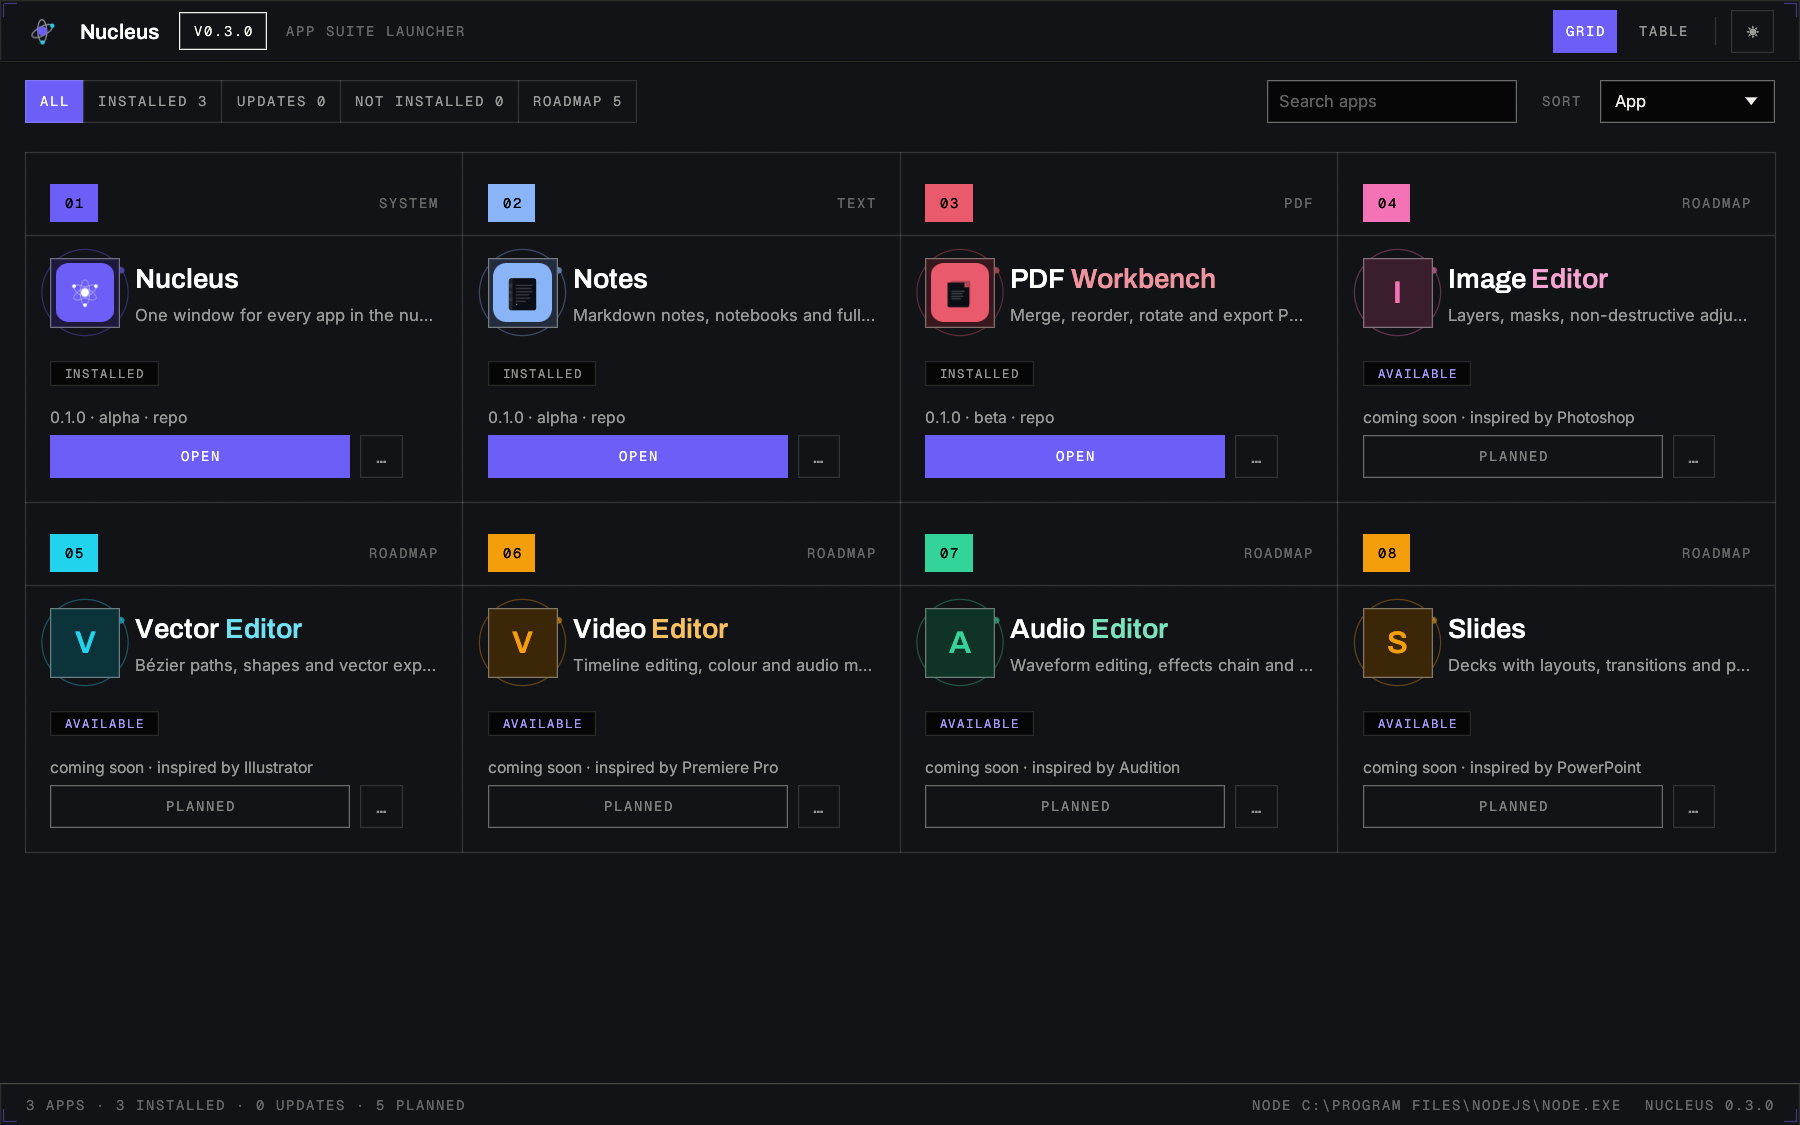
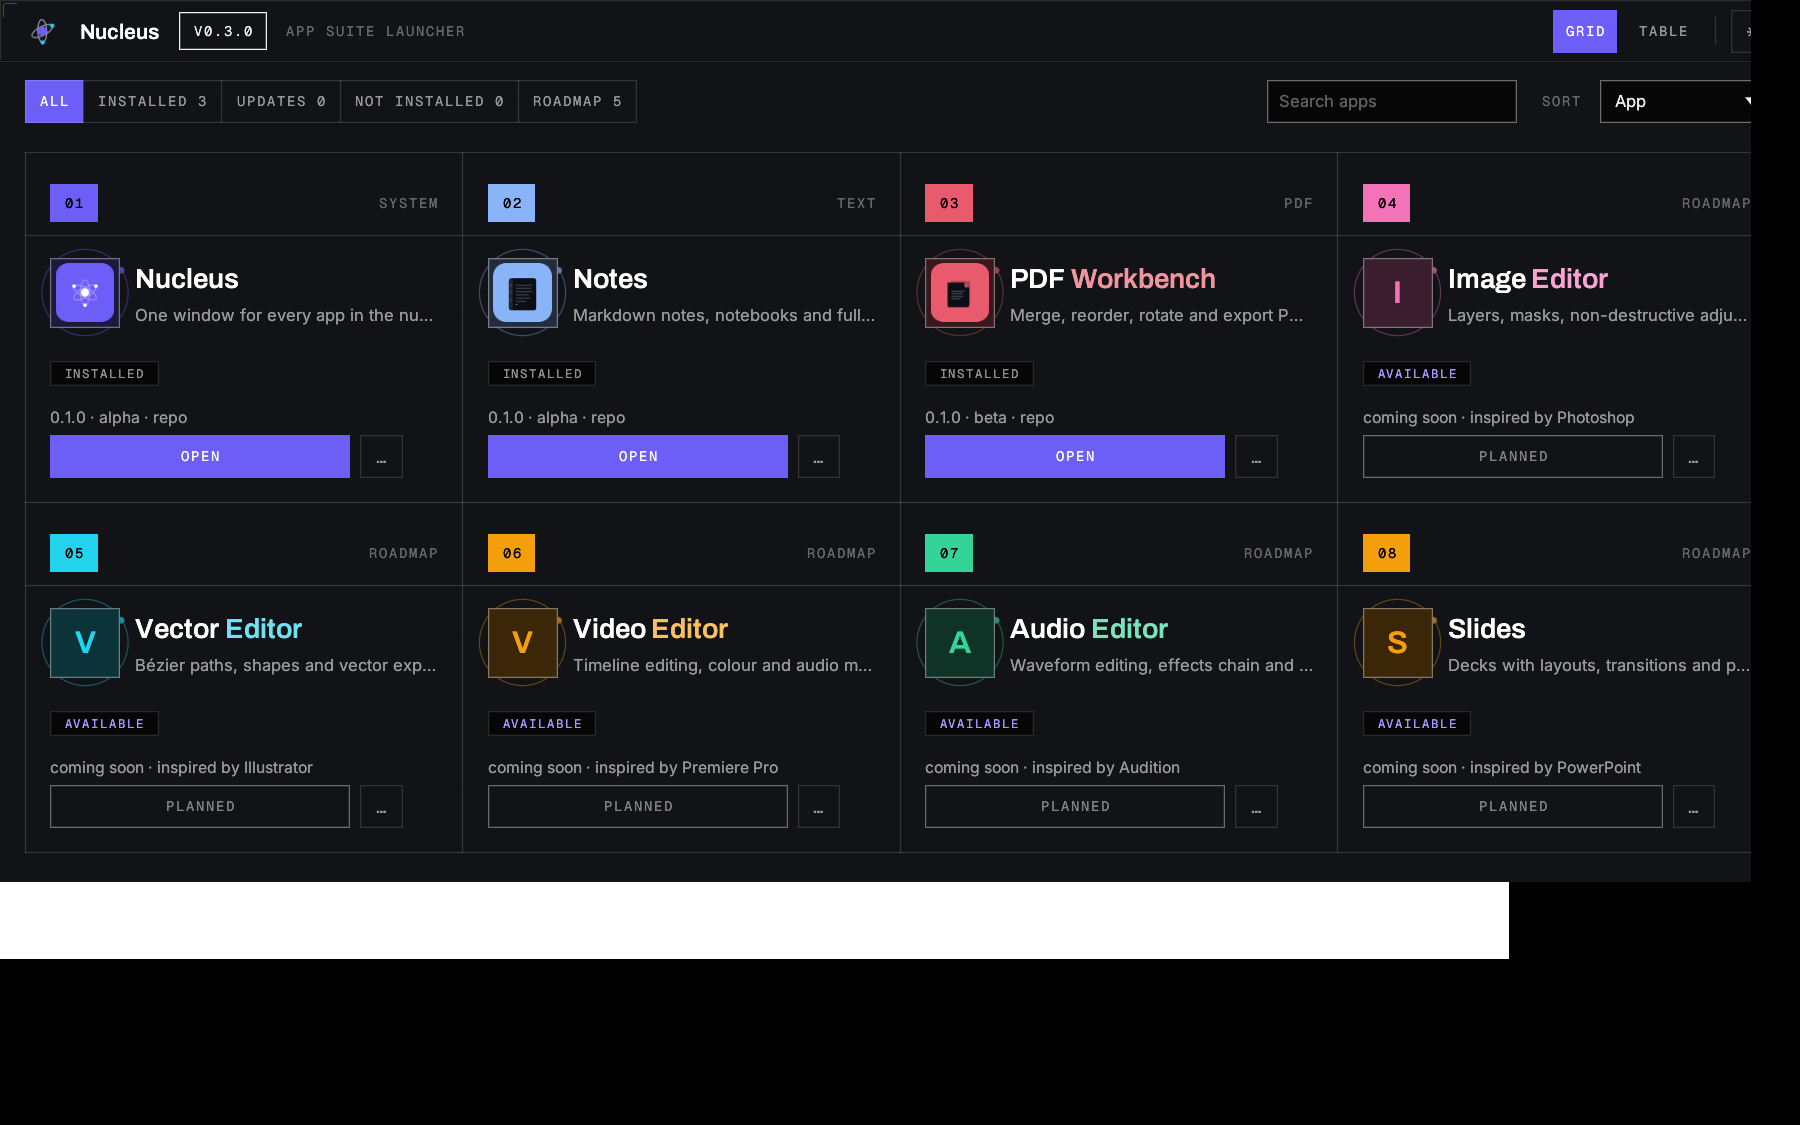
chore(tools): capture screenshots from the native launcher
tools/screenshot.mjs drove a Playwright browser at the TypeScript launcher, and
Playwright is not a dependency of this repo, so the script could not run at all
- it was dead weight. scripts/capture-shots.ps1 replaces it: it restarts the
launcher so the capture owns one window, resizes it to a 1440x900 client area,
PrintWindow-grabs the pixels (a plain BitBlt of the glow surface comes back
blank), crops the OS title bar and window frame so only app UI remains, then
locates the table nav label in the pixels and clicks it for the second shot.

Both screenshots regenerated with it; README's tools/ listing no longer claims
screenshot capture lives there.

diff --git a/README.md b/README.md
@@ -144,9 +144,9 @@ apps/launcher         # the launcher window (grid/table UI + /api/apps)
 apps/pdf-workbench    # app #1: local HTTP server + web UI
 apps/notes            # app #2: Markdown notes on the command bus
 schemas/              # JSON Schema - the source of truth for codegen
-tools/                # codegen, validators, screenshot capture
+tools/                # codegen, schema validators
 shell/                # native window host (WinForms + WebView2)
-scripts/              # shell build, desktop entry point, shortcut installer
+scripts/              # shell build, release build, screenshots, shortcut installer
 launcher-rs/          # native Rust launcher: core crate + egui/eframe UI crate
 ```
 
